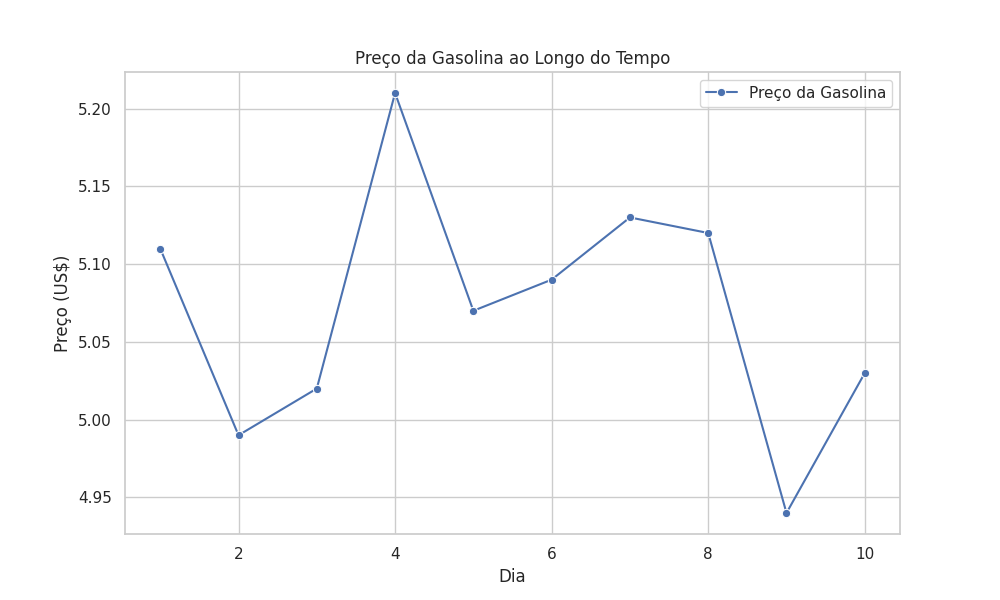
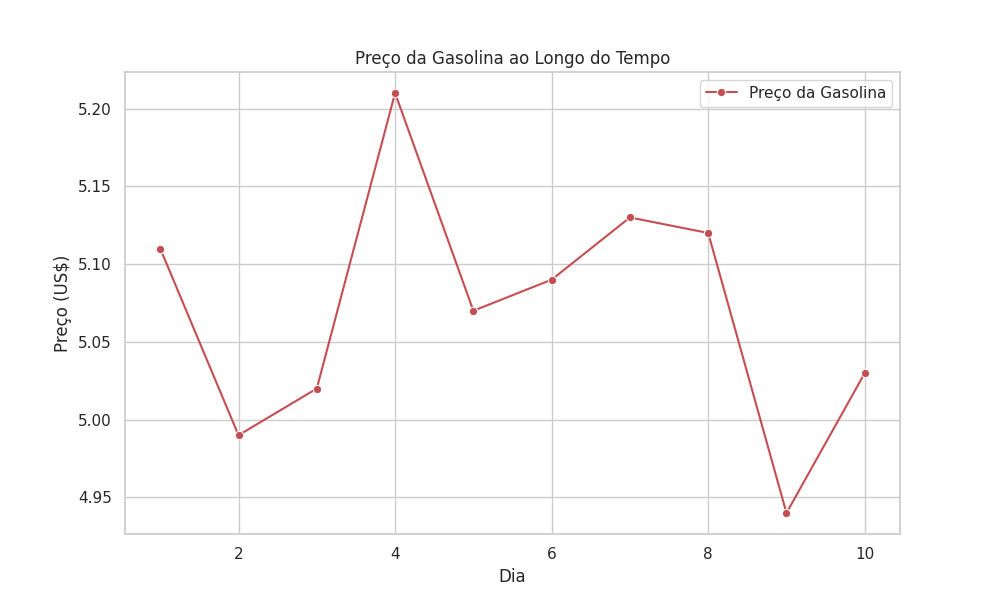
Arquvios 'gasolina.csv', 'gasolina.py' e 'gasolina.png' criados

diff --git a/gasolina.py b/gasolina.py
@@ -8,7 +8,7 @@ print(f'Dataframe criado com sucesso, contendo {gasolina_df.shape[0]} linhas e {
 sns.set(style="whitegrid")
 
 plt.figure(figsize=(10, 6))
-sns.lineplot(x='dia', y='venda', data=gasolina_df, marker='o', color='b', label='Preço da Gasolina')
+sns.lineplot(x='dia', y='venda', data=gasolina_df, marker='o', color='r', label='Preço da Gasolina')
 
 plt.title('Preço da Gasolina ao Longo do Tempo')
 plt.xlabel('Dia')
